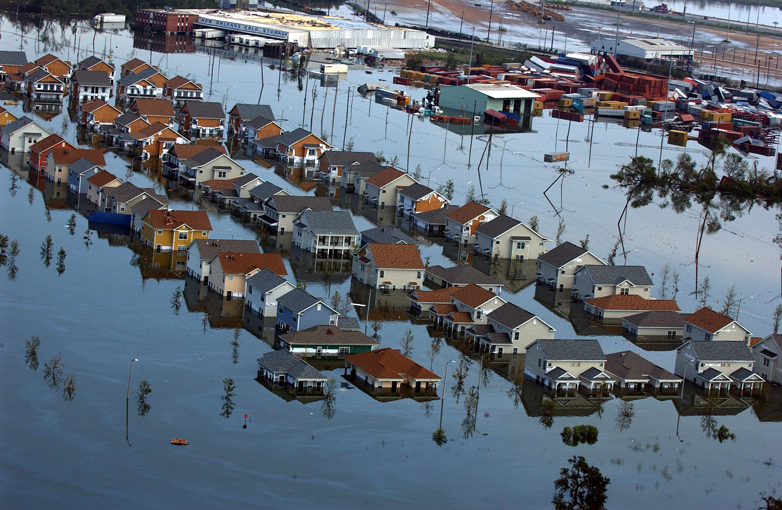
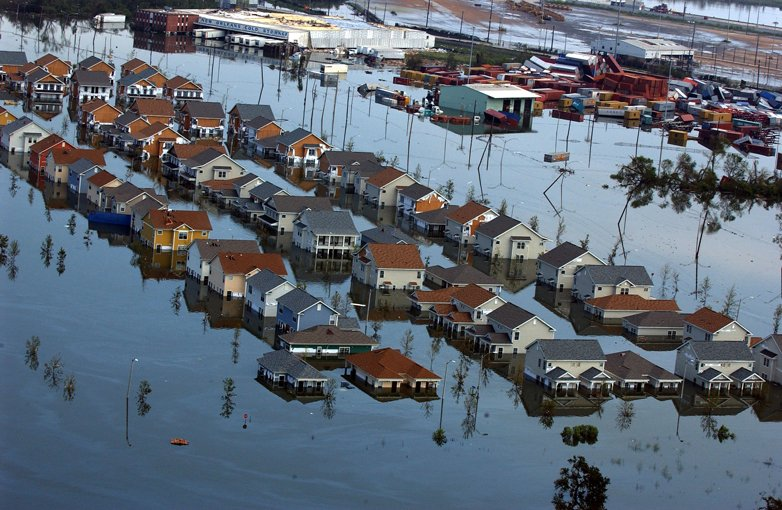
optimized images and added robots.txt

diff --git a/src/scss/components/_article.scss b/src/scss/components/_article.scss
@@ -10,3 +10,7 @@
 	));
 	text-transform: uppercase;
 }
+
+.c-article__img {
+	width: 100%;
+}
